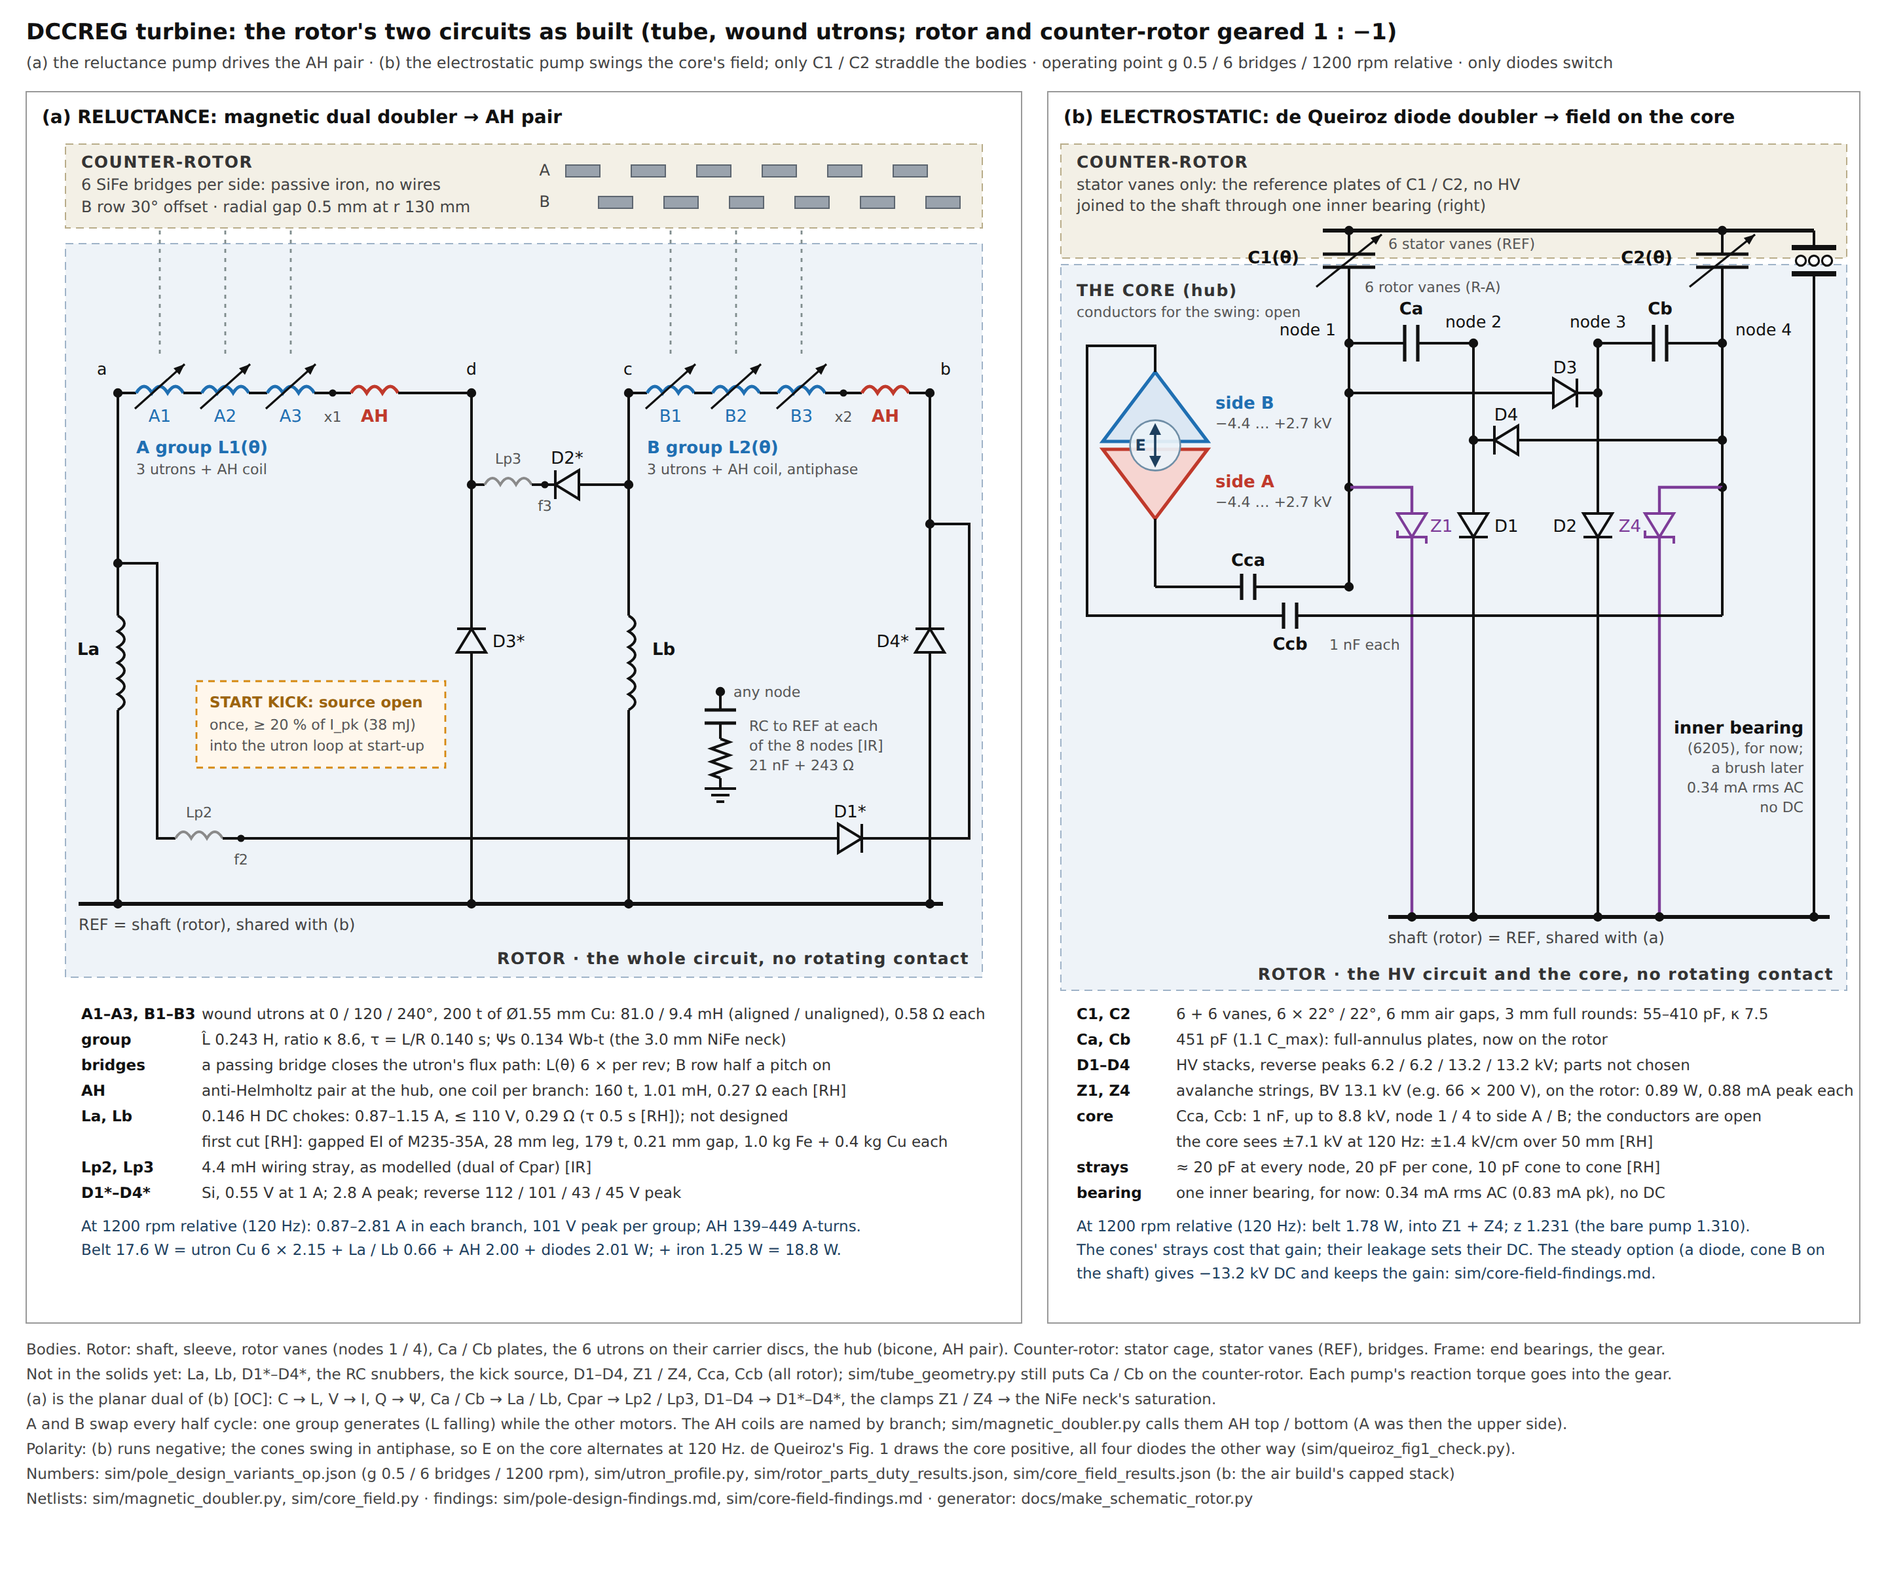
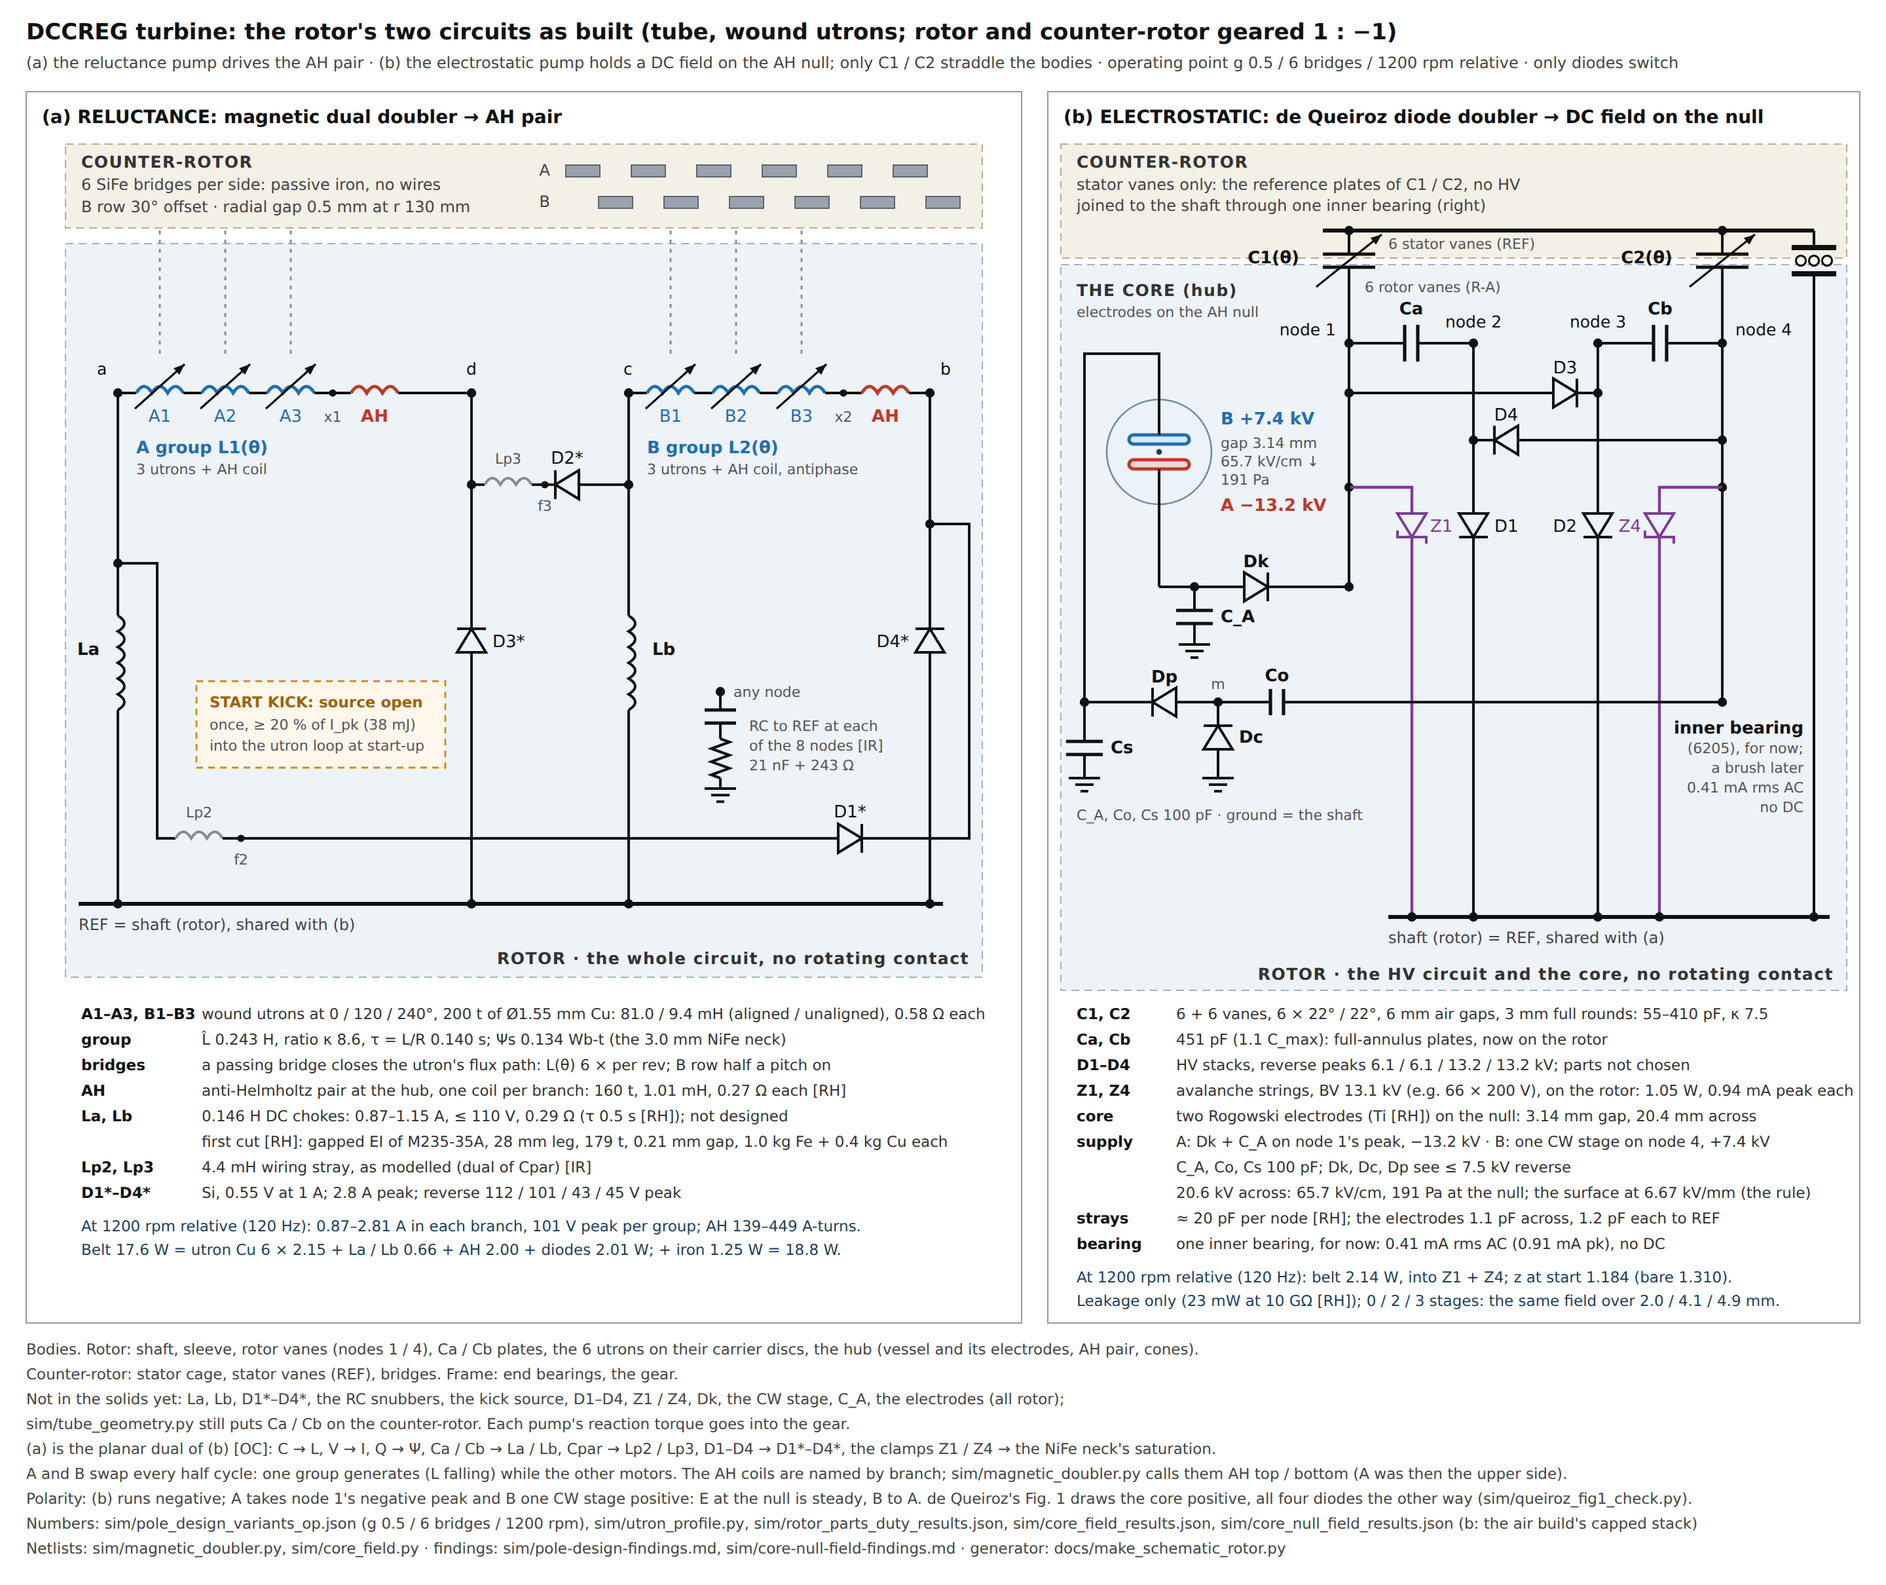
docs(schematic): panel (b) with the DC field on the AH null
The core block now shows the vacuum vessel with electrodes B (upper,
+7.4 kV) and A (lower, -13.2 kV) on the null, 3.14 mm apart: 65.7 kV/cm
and 191 Pa. A is peak-charged from node 1 through Dk and held by C_A;
B sits on one Cockcroft-Walton stage on node 4 (Co, Dc, Dp, Cs), all
100 pF to the shaft. The table and notes follow (supply, field, strays,
the bearing's current from the dc1 run).

Claude-Session: https://claude.ai/code/session_019kWq1ZtzZgffamNAmjzqBU

diff --git a/docs/make_schematic_rotor.py b/docs/make_schematic_rotor.py
@@ -5,11 +5,13 @@
     counter-rotor's passive bridges make L(theta); no wire crosses between the bodies.
 (b) ELECTROSTATIC: the de Queiroz diode doubler with its HV side on the rotor (sim/core_field.py netlist; the air
     build's capped stack) -- C1 / C2 between the rotor vanes (nodes 1 / 4) and the counter-rotor's stator vanes, which
-    are the reference; Ca / Cb, D1-D4 and the clamps Z1 / Z4 on the rotor; the electrodes on the two G10 cones floating,
-    each coupled to its node (A to 1, B to 4) through Cc, so the core sees a swinging field; the stator vanes joined to
-    the shaft through one inner bearing for now (a brush later).
+    are the reference; Ca / Cb, D1-D4 and the clamps Z1 / Z4 on the rotor; two Rogowski electrodes in the vacuum on the
+    AH null, A peak-charged from node 1 through Dk and B on one Cockcroft-Walton stage on node 4, so the null sees a
+    steady field (sim/core-null-field-findings.md); the stator vanes joined to the shaft through one inner bearing for
+    now (a brush later).
 Values: sim/pole_design_variants_op.json (the pick), sim/utron_profile.py, sim/rotor_parts_duty_results.json (La / Lb,
-D1*-D4* at the pick), sim/core_field_results.json (the electrostatic pump, the core and the link).
+D1*-D4* at the pick), sim/core_field_results.json (the electrostatic pump, the supply and the link: 'dc1 0.1nF'),
+sim/core_null_field_results.json (the electrodes).
 Usage: python3 docs/make_schematic_rotor.py   (the PNG needs playwright + chromium)
 """
 import json
@@ -24,6 +26,7 @@ import magnetic_doubler as MDm     # noqa: E402  (the dual's constants: AH rewin
 import utron_profile as U          # noqa: E402
 
 PICK = "g 0.5 / 6 bridges / 1200 rpm"
+SUPPLY = "dc1 0.1nF"                               # the null's supply of record (sim/core-null-field-findings.md)
 LA_RATIO, TAU_FIXED, AH_KEY = 0.6, 0.5, "r160"     # as sim/pole_design.size_op runs the pick
 OUT = os.path.join(HERE, "schematic-rotor-circuits")
 o = []
@@ -134,8 +137,9 @@ def numbers():
     duty = json.load(open(os.path.join(ROOT, "sim", "rotor_parts_duty_results.json")))
     cf = json.load(open(os.path.join(ROOT, "sim", "core_field_results.json")))
     cfr = {r["name"]: r for r in cf["rows"]}
+    nf = json.load(open(os.path.join(ROOT, "sim", "core_null_field_results.json")))
     return dict(op=op, b=b, sp=sp, Lg=Lg, ah=ah, F=F, csn=csn, rsn=rsn, la=LA_RATIO * Lg, lp=MDm.R_PAR * Lg, duty=duty,
-                cf=cf, cfr=cfr)
+                cf=cf, cfr=cfr, nf=nf, dc=cfr[SUPPLY], dc_free=cfr["free " + SUPPLY], null=nf["design"]["dc1"])
 
 
 # ------------------------------------------------------------------------------------------------ (a) reluctance
@@ -247,19 +251,15 @@ def panel_a_table(ox, y, N):
 
 
 # ------------------------------------------------------------------------------------------------ (b) electrostatic
-def bicone(xc, yc, hw=50, hh=62, gap=3):
-    """the hub's bicone as electrodes around the vacuum sphere: cone A (lower) and cone B (upper)."""
-    o.append(f'<polygon points="{xc - hw:.1f},{yc + gap:.1f} {xc + hw:.1f},{yc + gap:.1f} {xc:.1f},{yc + hh:.1f}" '
-             'class="cone_a"/>')
-    o.append(f'<polygon points="{xc - hw:.1f},{yc - gap:.1f} {xc + hw:.1f},{yc - gap:.1f} {xc:.1f},{yc - hh:.1f}" '
-             'class="cone_b"/>')
-    o.append(f'<circle cx="{xc:.1f}" cy="{yc:.1f}" r="{0.48 * hw:.1f}" class="glass"/>')
-    ln(xc, yc - 12, xc, yc + 12, "ef")                                   # E swings: up and down at 120 Hz
-    for sg in (1, -1):
-        o.append(f'<polygon points="{xc:.1f},{yc + sg * 17:.1f} {xc - 4.5:.1f},{yc + sg * 8:.1f} '
-                 f'{xc + 4.5:.1f},{yc + sg * 8:.1f}" fill="#1d3f5e"/>')
-    tx(xc - 7, yc + 4, "E", "te", "end")
-    return yc - hh, yc + hh
+def null_core(xc, yc, rv=40, hw=23, g=12, t=7):
+    """the vacuum vessel with the two electrodes on the AH null: B (upper) and A (lower), not to scale; the field
+    points down, from B (+) to A (-). Returns the vessel's top and bottom."""
+    o.append(f'<circle cx="{xc:.1f}" cy="{yc:.1f}" r="{rv:.1f}" class="glass"/>')
+    for y0, cl in ((yc - g / 2 - t, "cone_b"), (yc + g / 2, "cone_a")):
+        o.append(f'<rect x="{xc - hw:.1f}" y="{y0:.1f}" width="{2 * hw:.1f}" height="{t:.1f}" rx="3.5" class="{cl}"/>')
+    ln(xc, yc - g / 2 - t, xc, yc - rv, "w"); ln(xc, yc + g / 2 + t, xc, yc + rv, "w")          # the stems
+    o.append(f'<circle cx="{xc:.1f}" cy="{yc:.1f}" r="2.2" fill="#1d3f5e"/>')                   # the null
+    return yc - rv, yc + rv
 
 
 def panel_b(ox, N):
@@ -304,33 +304,48 @@ def panel_b(ox, N):
     for x, xz, nm in ((x1, x1z, "Z1"), (x4, x4z, "Z4")):
         dot(x, y_z); pl([(x, y_z), (xz, y_z), (xz, 392)], "lim"); diode(xz, 392, "down", "#7d3c98", zener=True)
         ln(xz, 410, xz, y_sh, "lim"); tx(xz + (14 if x == x1 else -14), 406, nm, "tl", "start" if x == x1 else "end")
-    # the core: the cones float, each coupled to its node through Cc; only their leakage ties their DC to the shaft
-    fs = N["cfr"]["float ss"]
-    xk, y_kb = ox + 102, y_k + 22
+    # the core: two electrodes in the vacuum on the AH null. A on node 1's negative peak (Dk, C_A); B on one
+    # Cockcroft-Walton stage on node 4's swing (Co, Dc, Dp, Cs); all storage 100 pF to the shaft
+    dc, nl = N["dc"], N["null"]
+    xk, yc, y_cw, xl = ox + 105, 345, 536, ox + 48
     ln(x1, y_n, x1, y_k); dot(x1, y_k)
-    ln(x4, y_z, x4, y_kb)
-    yt, ybm = bicone(xk, 340, hw=40, hh=56)
+    ln(x4, y_z, x4, y_cw); dot(x4, y_cw)
+    yt, ybm = null_core(xk, yc)
+    # A: the stem down to the Dk lead; C_A to the shaft
     ln(xk, ybm, xk, y_k)
-    ln(xk, y_k, ox + 168, y_k); cap_h(ox + 168, y_k, 10); ln(ox + 178, y_k, x1, y_k)
-    tx(ox + 173, y_k - 16, "Cca", "t", "middle", 'font-weight="bold"')
-    pl([(xk, yt), (xk, yt - 20), (ox + 50, yt - 20), (ox + 50, y_kb), (ox + 200, y_kb)])
-    cap_h(ox + 200, y_kb, 10); ln(ox + 210, y_kb, x4, y_kb)
-    tx(ox + 205, y_kb + 26, "Ccb", "t", "middle", 'font-weight="bold"')
-    tx(ox + 235, y_kb + 26, "1 nF each", "ms", "start")
-    ca, cb = fs["V_ka_kV"], fs["V_kb_kV"]
-    tx(xk + 46, 312, "side B", "tu", "start", 'font-weight="bold"')
-    tx(xk + 46, 327, f"{kv(cb['min'])} … +{cb['max']:.1f} kV", "ms")
-    tx(xk + 46, 372, "side A", "ta", "start", 'font-weight="bold"')
-    tx(xk + 46, 387, f"{kv(ca['min'])} … +{ca['max']:.1f} kV", "ms")
+    ln(xk, y_k, ox + 170, y_k); diode(ox + 170, y_k, "right"); ln(ox + 188, y_k, x1, y_k)
+    tx(ox + 179, y_k - 15, "Dk", "t", "middle", 'font-weight="bold"')
+    dot(ox + 132, y_k); ln(ox + 132, y_k, ox + 132, y_k + 18); cap_v(ox + 132, y_k + 18, 14)
+    ln(ox + 132, y_k + 28, ox + 132, y_k + 44); ground(ox + 132, y_k + 44)
+    tx(ox + 152, y_k + 27, "C_A", "t", "start", 'font-weight="bold"')
+    # B: the stem up and round to the multiplier's output; Cs to the shaft
+    pl([(xk, yt), (xk, 270), (xl, 270), (xl, y_cw), (ox + 100, y_cw)])
+    dot(xl, y_cw); ln(xl, y_cw, xl, y_cw + 30); cap_v(xl, y_cw + 30, 14); ln(xl, y_cw + 40, xl, y_cw + 58)
+    ground(xl, y_cw + 58)
+    tx(xl + 20, y_cw + 39, "Cs", "t", "start", 'font-weight="bold"')
+    diode(ox + 118, y_cw, "left"); ln(ox + 118, y_cw, ox + 150, y_cw)                       # Dp: m -> B
+    tx(ox + 109, y_cw - 15, "Dp", "t", "middle", 'font-weight="bold"')
+    dot(ox + 150, y_cw); tx(ox + 150, y_cw - 10, "m", "ms", "middle")
+    ln(ox + 150, y_cw, ox + 150, y_cw + 18); diode(ox + 150, y_cw + 36, "up"); ln(ox + 150, y_cw + 36, ox + 150, y_cw + 58)
+    ground(ox + 150, y_cw + 58)                                                                # Dc: shaft -> m
+    tx(ox + 166, y_cw + 31, "Dc", "t", "start", 'font-weight="bold"')
+    ln(ox + 150, y_cw, ox + 190, y_cw); cap_h(ox + 190, y_cw, 10); ln(ox + 200, y_cw, x4, y_cw)   # Co: node 4 -> m
+    tx(ox + 195, y_cw - 16, "Co", "t", "middle", 'font-weight="bold"')
+    tx(ox + 42, y_cw + 90, "C_A, Co, Cs 100 pF · ground = the shaft", "ms", "start")
+    tx(xk + 47, yc - 21, f"B +{nl['V_B_kV']:.1f} kV", "tu", "start", 'font-weight="bold"')
+    tx(xk + 47, yc - 3, f"gap {nl['g_min_mm']:.2f} mm", "ms")
+    tx(xk + 47, yc + 11, f"{nl['E0_kV_cm']:.1f} kV/cm ↓", "ms")
+    tx(xk + 47, yc + 25, f"{nl['p0_Pa']:.0f} Pa", "ms")
+    tx(xk + 47, yc + 45, f"A {kv(nl['V_A_kV'])} kV", "ta", "start", 'font-weight="bold"')
     tx(ox + 42, 226, "THE CORE (hub)", "zh")
-    tx(ox + 42, 242, "conductors for the swing: open", "ms")
+    tx(ox + 42, 242, "electrodes on the AH null", "ms")
     # the one rotating contact: an inner bearing (outer ring on the counter-rotor, inner ring on the shaft)
     ln(xb, y_s, xb, y_bd - 10)
     ln(xb - 17, y_bd - 10, xb + 17, y_bd - 10, "ring"); ln(xb - 17, y_bd + 10, xb + 17, y_bd + 10, "ring")
     for dx in (-10, 0, 10):
         o.append(f'<circle cx="{xb + dx:.1f}" cy="{y_bd:.1f}" r="3.8" class="ball"/>')
     ln(xb, y_bd + 10, xb, y_sh)
-    lk = N["cfr"]["float ss"]["link"]
+    lk = N["dc"]["link"]
     for i, t_ in enumerate(("inner bearing", "(6205), for now;", "a brush later", f"{lk['I_rms_mA']:.2f} mA rms AC",
                             "no DC")):
         tx(xb - 8, 560 + 15 * i, t_, "t" if i == 0 else "ms", "end", 'font-weight="bold"' if i == 0 else "")
@@ -343,7 +358,7 @@ def panel_b(ox, N):
 
 def panel_b_table(ox, y, N):
     d, cf, R = N["cf"]["design"], N["cf"], N["cfr"]
-    fs, pk = R["float ss"], R["peak 1nF 10G"]
+    fs, nl = N["dc"], N["null"]
     vr = fs["VR_pk_kV"]
     zs = N["duty"]["clamp_string"]
     n_z = math.ceil(d["V_op_kV"] * 1e3 / zs["V_Z"])
@@ -356,21 +371,24 @@ def panel_b_table(ox, y, N):
                   "parts not chosen"),
         ("Z1, Z4", f"avalanche strings, BV {d['V_op_kV']:.1f} kV (e.g. {n_z} × {zs['V_Z']:.0f} V), on the rotor: "
                    f"{fs['Z1']['P_W']:.2f} W, {fs['Z1']['I_pk_mA']:.2f} mA peak each"),
-        ("core", f"Cca, Ccb: 1 nF, up to {vr['CC']:.1f} kV, node 1 / 4 to side A / B; the conductors are open"),
-        ("", f"the core sees ±{fs['swing_pk_kV']:.1f} kV at 120 Hz: ±{fs['E_pk_kV_cm']:.1f} kV/cm over "
-             f"{cf['D_CORE_mm']:.0f} mm [RH]"),
-        ("strays", f"≈ {cf['CPAR_pF']:.0f} pF at every node, {cf['C_CONE_pF']:.0f} pF per cone, {cf['C_CC_pF']:.0f} pF "
-                   "cone to cone [RH]"),
+        ("core", f"two Rogowski electrodes (Ti [RH]) on the null: {nl['g_min_mm']:.2f} mm gap, "
+                 f"{2 * nl['R_max_mm']:.1f} mm across"),
+        ("supply", f"A: Dk + C_A on node 1's peak, {kv(nl['V_A_kV'])} kV · B: one CW stage on node 4, "
+                   f"+{nl['V_B_kV']:.1f} kV"),
+        ("", f"C_A, Co, Cs 100 pF; Dk, Dc, Dp see ≤ {max(vr['Dk'], vr['Dc1'], vr['Dp1']):.1f} kV reverse"),
+        ("", f"{nl['V_gap_kV']:.1f} kV across: {nl['E0_kV_cm']:.1f} kV/cm, {nl['p0_Pa']:.0f} Pa at the null; the "
+             f"surface at {N['nf']['E_op_kV_mm']:.2f} kV/mm (the rule)"),
+        ("strays", f"≈ {cf['CPAR_pF']:.0f} pF per node [RH]; the electrodes {nl['C_gap_pF']:.1f} pF across, "
+                   f"{nl['C_A_ref_pF']:.1f} pF each to REF"),
         ("bearing", f"one inner bearing, for now: {fs['link']['I_rms_mA']:.2f} mA rms AC "
                     f"({fs['link']['I_pk_mA']:.2f} mA pk), no DC"),
     ]
     y = table(ox + 42, y, rows, w_key=76)
+    D = N["nf"]["design"]
     tx(ox + 42, y + 6, f"At {cf['rpm_rel']:.0f} rpm relative ({cf['F_Hz']:.0f} Hz): belt {fs['P_belt_W']:.2f} W, into "
-                       f"Z1 + Z4; z {R['free float']['z']:.3f} (the bare pump {R['free none']['z']:.3f}).", "op")
-    tx(ox + 42, y + 24, "The cones' strays cost that gain; their leakage sets their DC. The steady option (a diode, "
-                        f"cone B on", "op")
-    tx(ox + 42, y + 42, f"the shaft) gives {kv(pk['V_core_kV']['mean'])} kV DC and keeps the gain: "
-                        "sim/core-field-findings.md.", "op")
+                       f"Z1 + Z4; z at start {N['dc_free']['z']:.3f} (bare {R['free none']['z']:.3f}).", "op")
+    tx(ox + 42, y + 24, f"Leakage only ({1e3 * fs['P_leak_W']:.0f} mW at 10 GΩ [RH]); 0 / 2 / 3 stages: the same field over "
+                        f"{D['dc0']['g_min_mm']:.1f} / {D['dc2']['g_min_mm']:.1f} / {D['dc3']['g_min_mm']:.1f} mm.", "op")
 
 
 # ------------------------------------------------------------------------------------------------ sheet
@@ -400,10 +418,10 @@ def main():
   </style>""")
     b = N["b"]
     tx(20, 30, "DCCREG turbine: the rotor's two circuits as built (tube, wound utrons; rotor and counter-rotor geared 1 : −1)", "h")
-    tx(20, 52, f"(a) the reluctance pump drives the AH pair · (b) the electrostatic pump swings the core's field; only C1 / C2 "
+    tx(20, 52, f"(a) the reluctance pump drives the AH pair · (b) the electrostatic pump holds a DC field on the AH null; only C1 / C2 "
                f"straddle the bodies · operating point {PICK} relative · only diodes switch", "m")
     for ox, w, title in ((20, 760, "(a) RELUCTANCE: magnetic dual doubler → AH pair"),
-                         (800, 620, "(b) ELECTROSTATIC: de Queiroz diode doubler → field on the core")):
+                         (800, 620, "(b) ELECTROSTATIC: de Queiroz diode doubler → DC field on the null")):
         box(ox, 70, w, 940, "frame")
         tx(ox + 12, 94, title, "h2")
     panel_a(20, N)
@@ -412,18 +430,21 @@ def main():
     panel_b_table(780, 778, N)
     notes = [
         "Bodies. Rotor: shaft, sleeve, rotor vanes (nodes 1 / 4), Ca / Cb plates, the 6 utrons on their carrier discs, the hub "
-        "(bicone, AH pair). Counter-rotor: stator cage, stator vanes (REF), bridges. Frame: end bearings, the gear.",
-        "Not in the solids yet: La, Lb, D1*–D4*, the RC snubbers, the kick source, D1–D4, Z1 / Z4, Cca, Ccb (all rotor); "
+        "(vessel and its electrodes, AH pair, cones).",
+        "Counter-rotor: stator cage, stator vanes (REF), bridges. Frame: end bearings, the gear.",
+        "Not in the solids yet: La, Lb, D1*–D4*, the RC snubbers, the kick source, D1–D4, Z1 / Z4, Dk, the CW stage, "
+        "C_A, the electrodes (all rotor);",
         "sim/tube_geometry.py still puts Ca / Cb on the counter-rotor. Each pump's reaction torque goes into the gear.",
         "(a) is the planar dual of (b) [OC]: C → L, V → I, Q → Ψ, Ca / Cb → La / Lb, Cpar → Lp2 / Lp3, D1–D4 → D1*–D4*, "
         "the clamps Z1 / Z4 → the NiFe neck's saturation.",
         "A and B swap every half cycle: one group generates (L falling) while the other motors. The AH coils are named by branch; "
         "sim/magnetic_doubler.py calls them AH top / bottom (A was then the upper side).",
-        "Polarity: (b) runs negative; the cones swing in antiphase, so E on the core alternates at 120 Hz. de Queiroz's Fig. 1 "
+        "Polarity: (b) runs negative; A takes node 1's negative peak and B one CW stage positive: E at the null is steady, "
+        "B to A. de Queiroz's Fig. 1 "
         "draws the core positive, all four diodes the other way (sim/queiroz_fig1_check.py).",
         f"Numbers: sim/pole_design_variants_op.json ({PICK}), sim/utron_profile.py, sim/rotor_parts_duty_results.json, "
-        "sim/core_field_results.json (b: the air build's capped stack)",
-        "Netlists: sim/magnetic_doubler.py, sim/core_field.py · findings: sim/pole-design-findings.md, sim/core-field-findings.md "
+        "sim/core_field_results.json, sim/core_null_field_results.json (b: the air build's capped stack)",
+        "Netlists: sim/magnetic_doubler.py, sim/core_field.py · findings: sim/pole-design-findings.md, sim/core-null-field-findings.md "
         "· generator: docs/make_schematic_rotor.py",
     ]
     y = 1034
